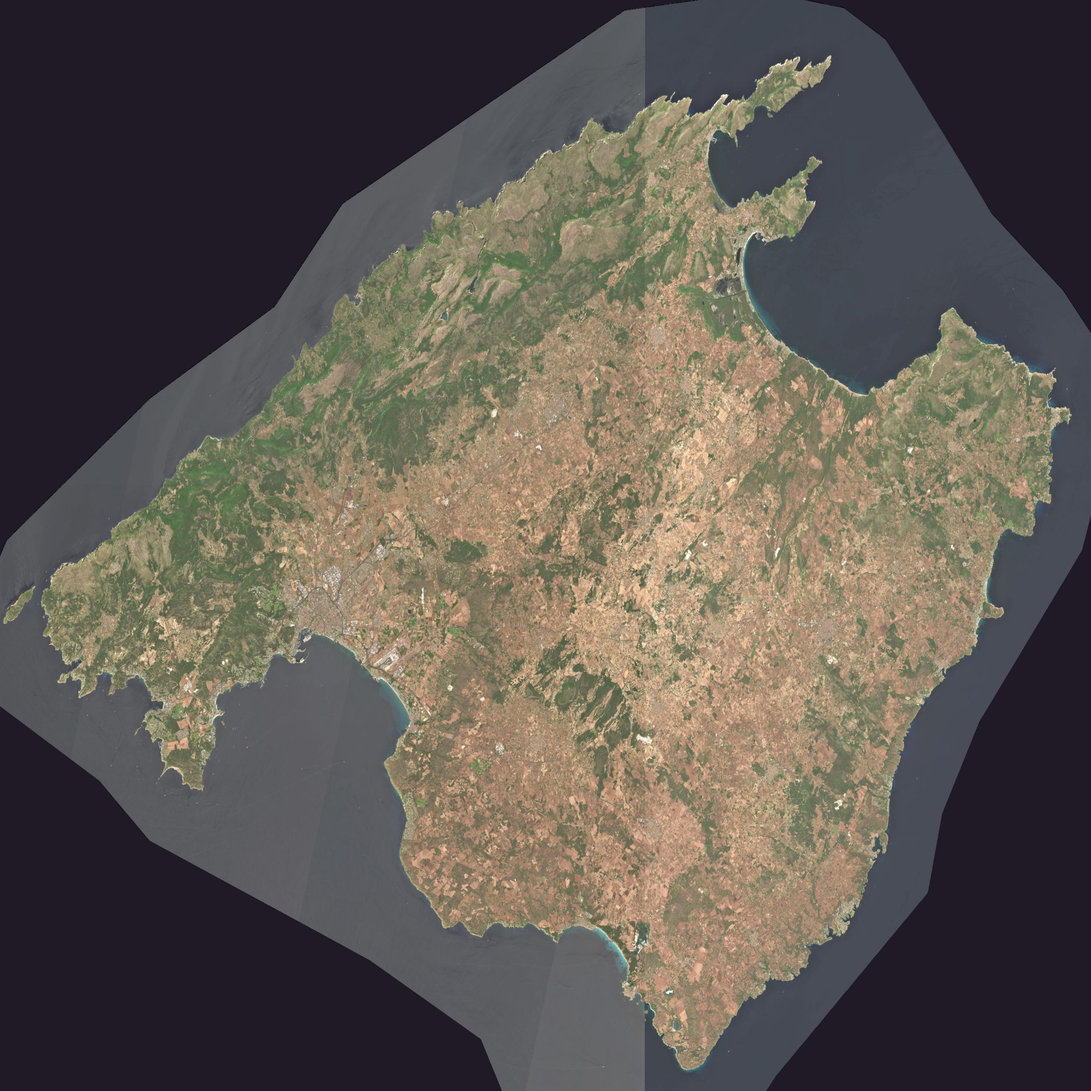
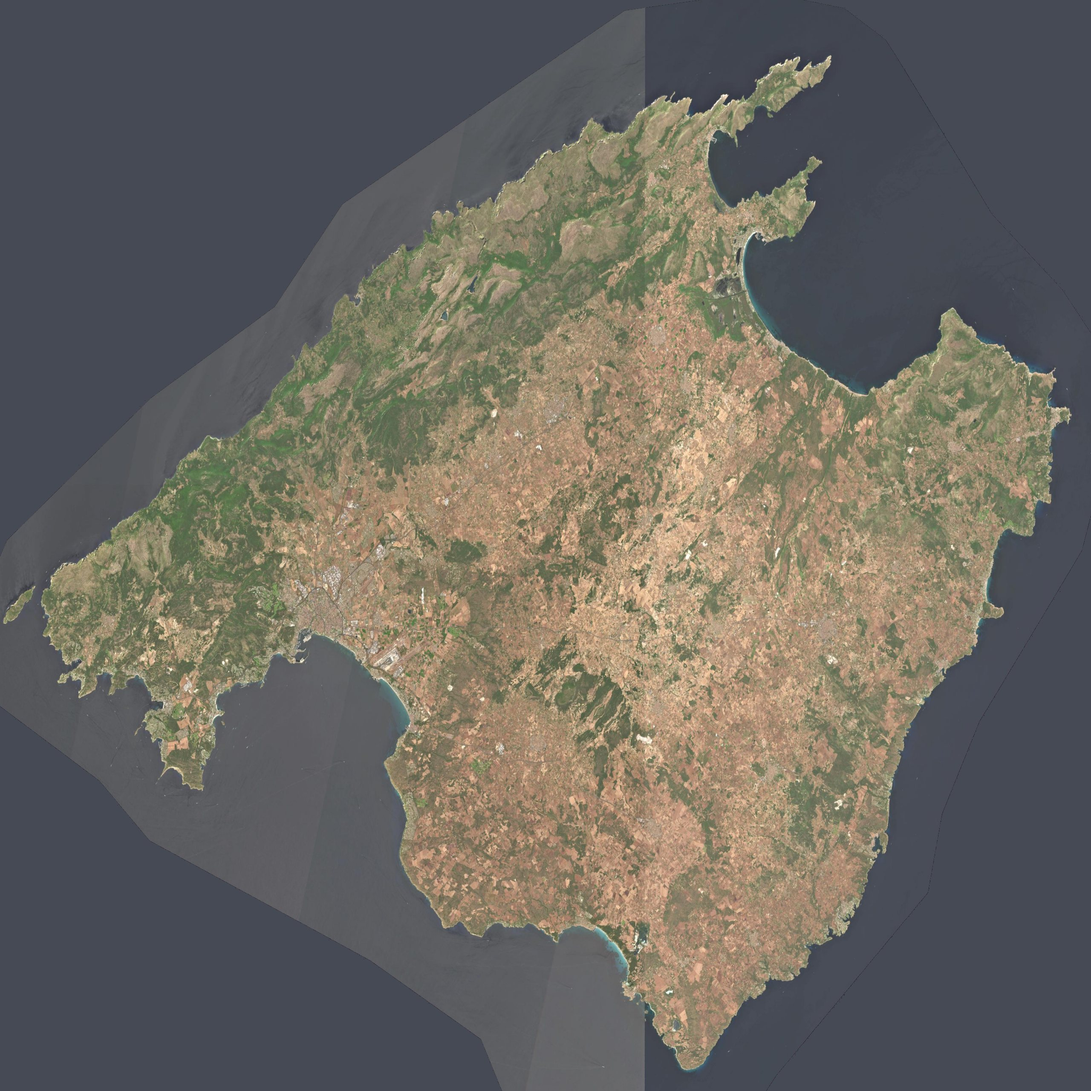
map picture: paint the missing open sea properly
The tiles the imagery service lacks over open sea came out dark purple,
not black, so the first fill missed them.

Claude-Session: https://claude.ai/code/session_01PPHh2zbfbnr8MpyN7j2Gdc

diff --git a/tools/build_network.py b/tools/build_network.py
@@ -486,8 +486,8 @@ def main():
         img = ortho.image(lat_min, lat_max, lon_min, lon_max, 12, 2560)
         # Open sea has no tiles at this zoom and comes out black; paint it the colour of the sea that is there.
         px = np.asarray(img.convert("RGB")).astype(np.int16)
-        sea = (px[..., 2] > px[..., 0] + 10) & (px[..., 2] > 20) & (px[..., 2] < 90)
-        missing = px.max(axis=2) < 12
+        missing = px.max(axis=2) < 45
+        sea = ~missing & (px[..., 2] > px[..., 0] + 8) & (px[..., 2] > 40) & (px[..., 2] < 120)
         if sea.any():
             px[missing] = np.median(px[sea], axis=0).astype(np.int16)
         img = Image.fromarray(px.astype(np.uint8))
